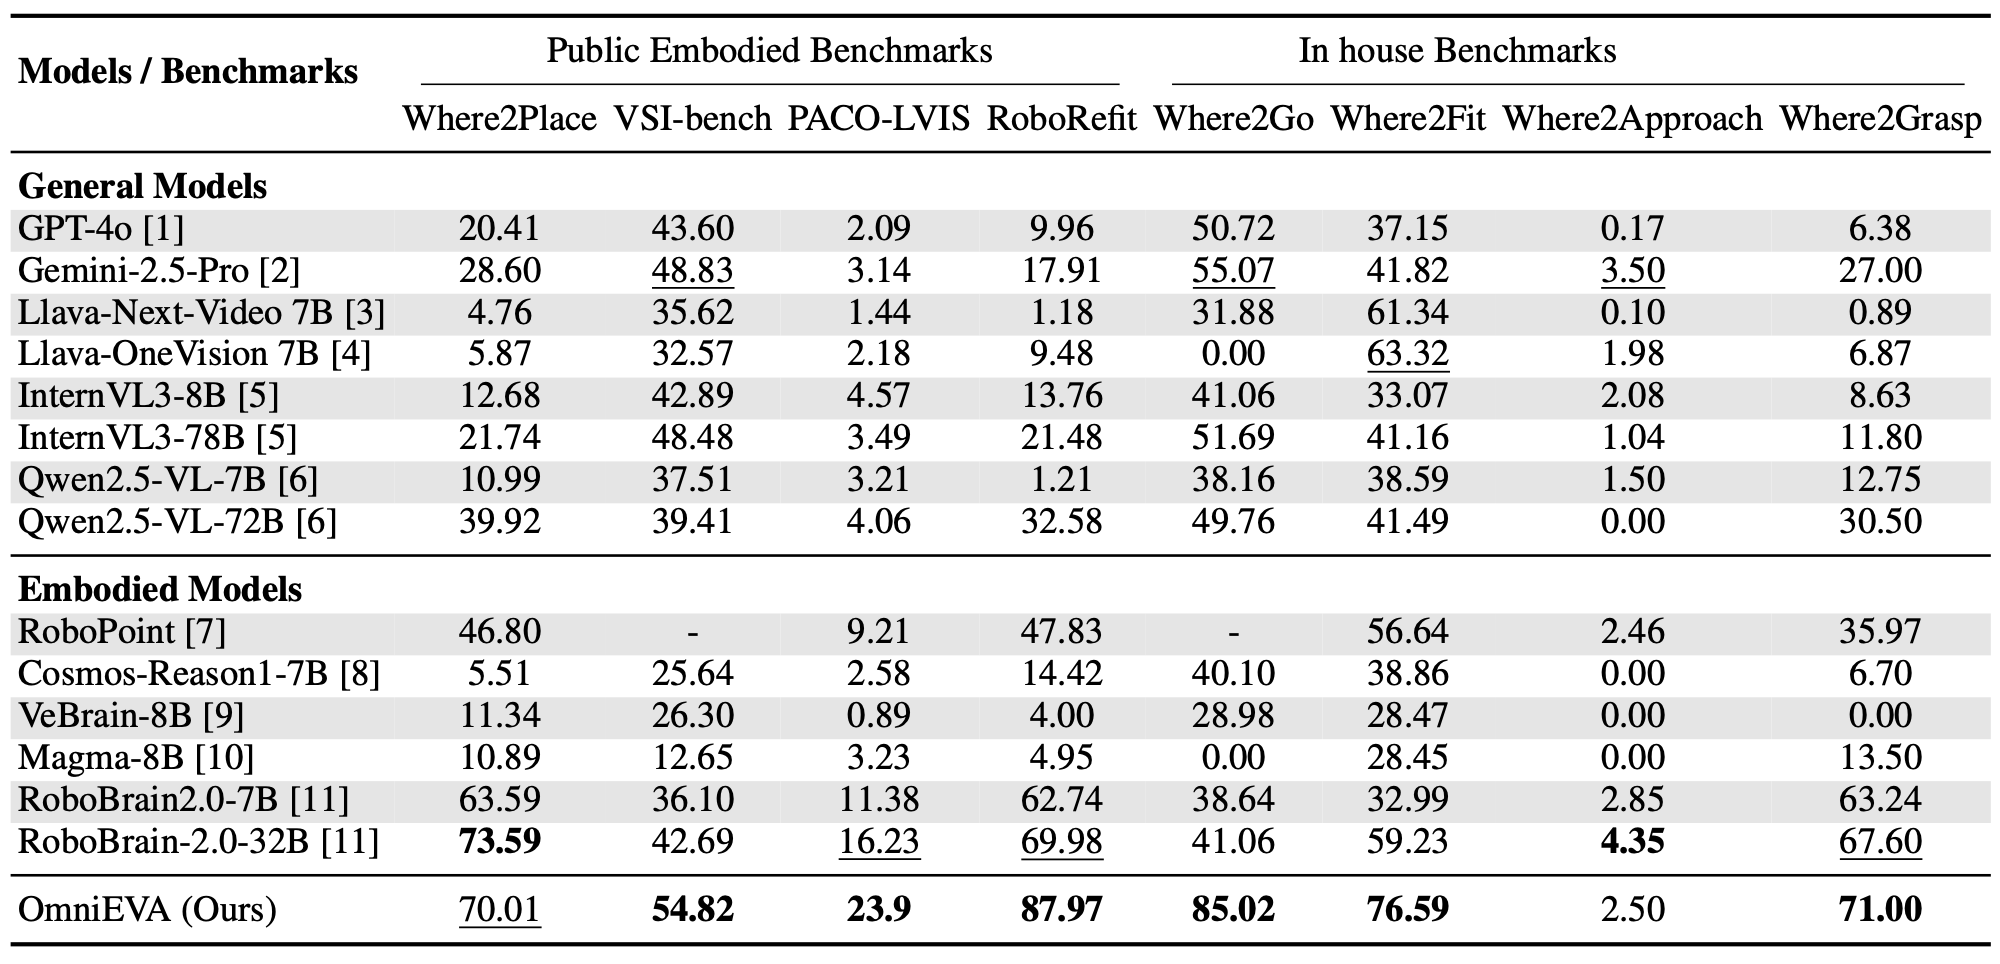
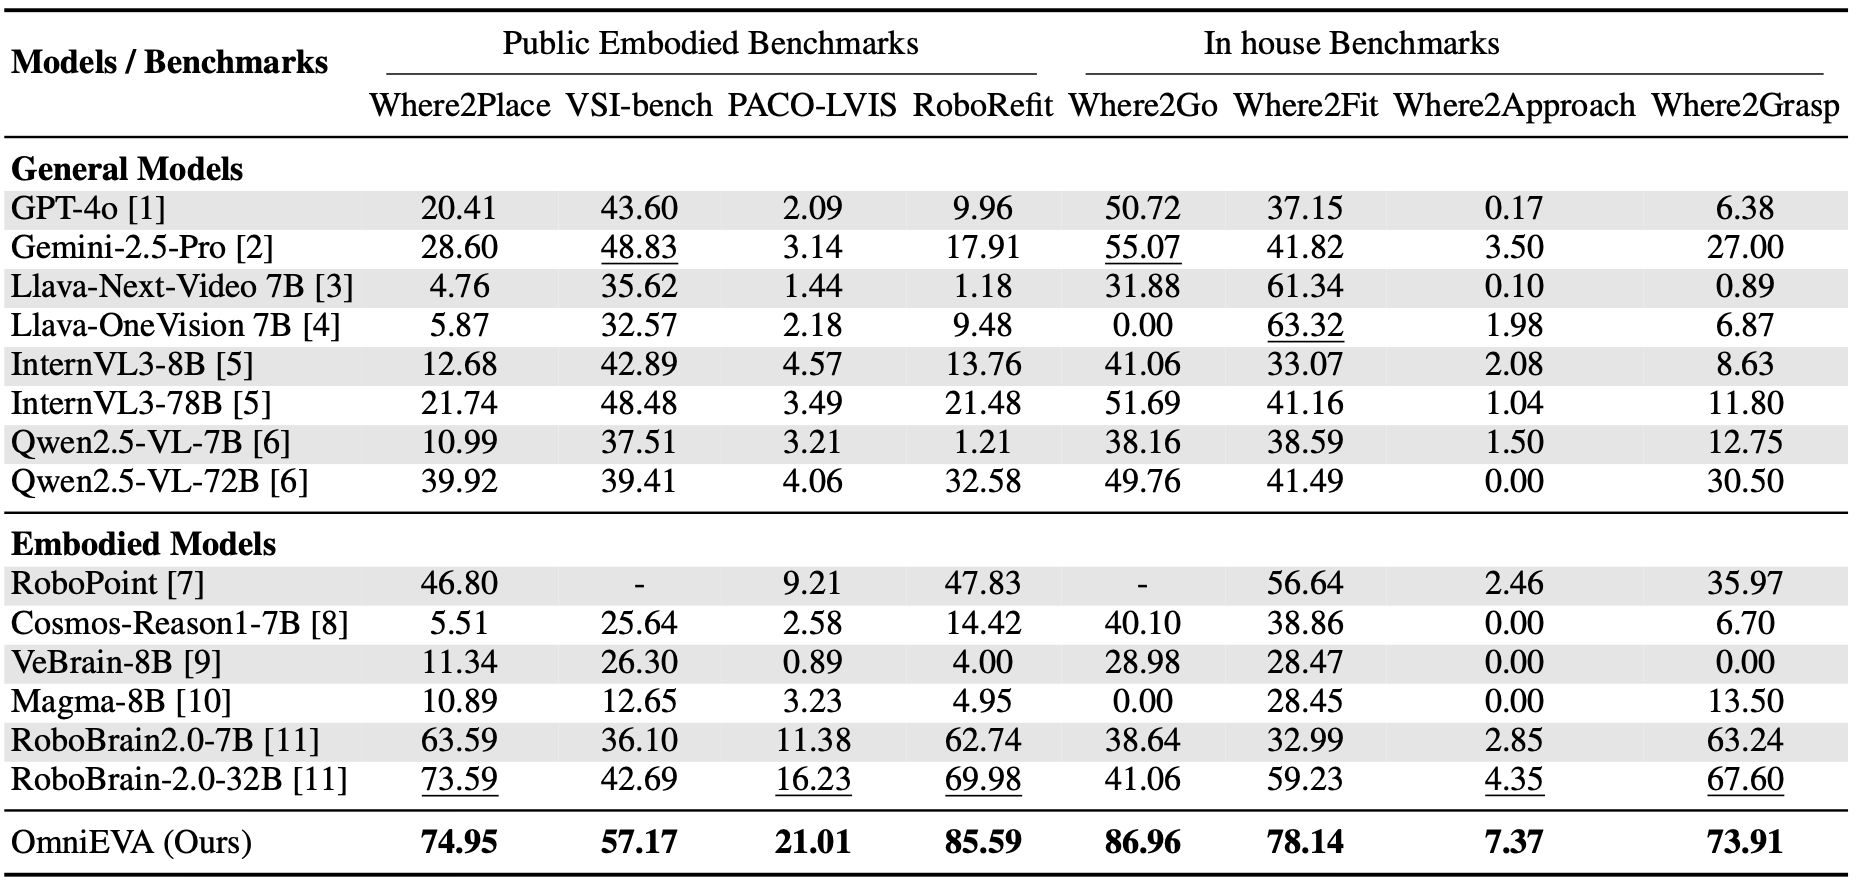
update

Changed region(s): [[0.0, 0.0, 1.0, 1.0], [0.9062, 0.2133, 0.9688, 0.3657], [0.0, 0.0609, 0.1875, 0.0914]]

diff --git a/index.html b/index.html
@@ -1003,7 +1003,7 @@
               },
               {
                 label: 'OmniEVA (Ours)',
-                data: [70.01, 54.82, 23.90, 87.97],
+                data: [74.95, 57.17, 21.01, 85.59],
                 backgroundColor: '#FF6347',
                 borderColor: '#FF6347',
                 borderWidth: 1
@@ -1084,7 +1084,7 @@
               },
               {
                 label: 'OmniEVA (Ours)',
-                data: [85.02, 76.59, 2.50, 71.00],
+                data: [86.96, 78.14, 7.37, 73.91],
                 backgroundColor: '#FF6347',
                 borderColor: '#FF6347',
                 borderWidth: 1
@@ -1165,7 +1165,7 @@
               },
               {
                 label: 'OmniEVA (Ours)',
-                data: [62.2, 31.5, 95.7, 53.6],
+                data: [62.9, 30.6, 94.6, 55.8],
                 backgroundColor: '#FF6347',
                 borderColor: '#FF6347',
                 borderWidth: 1
